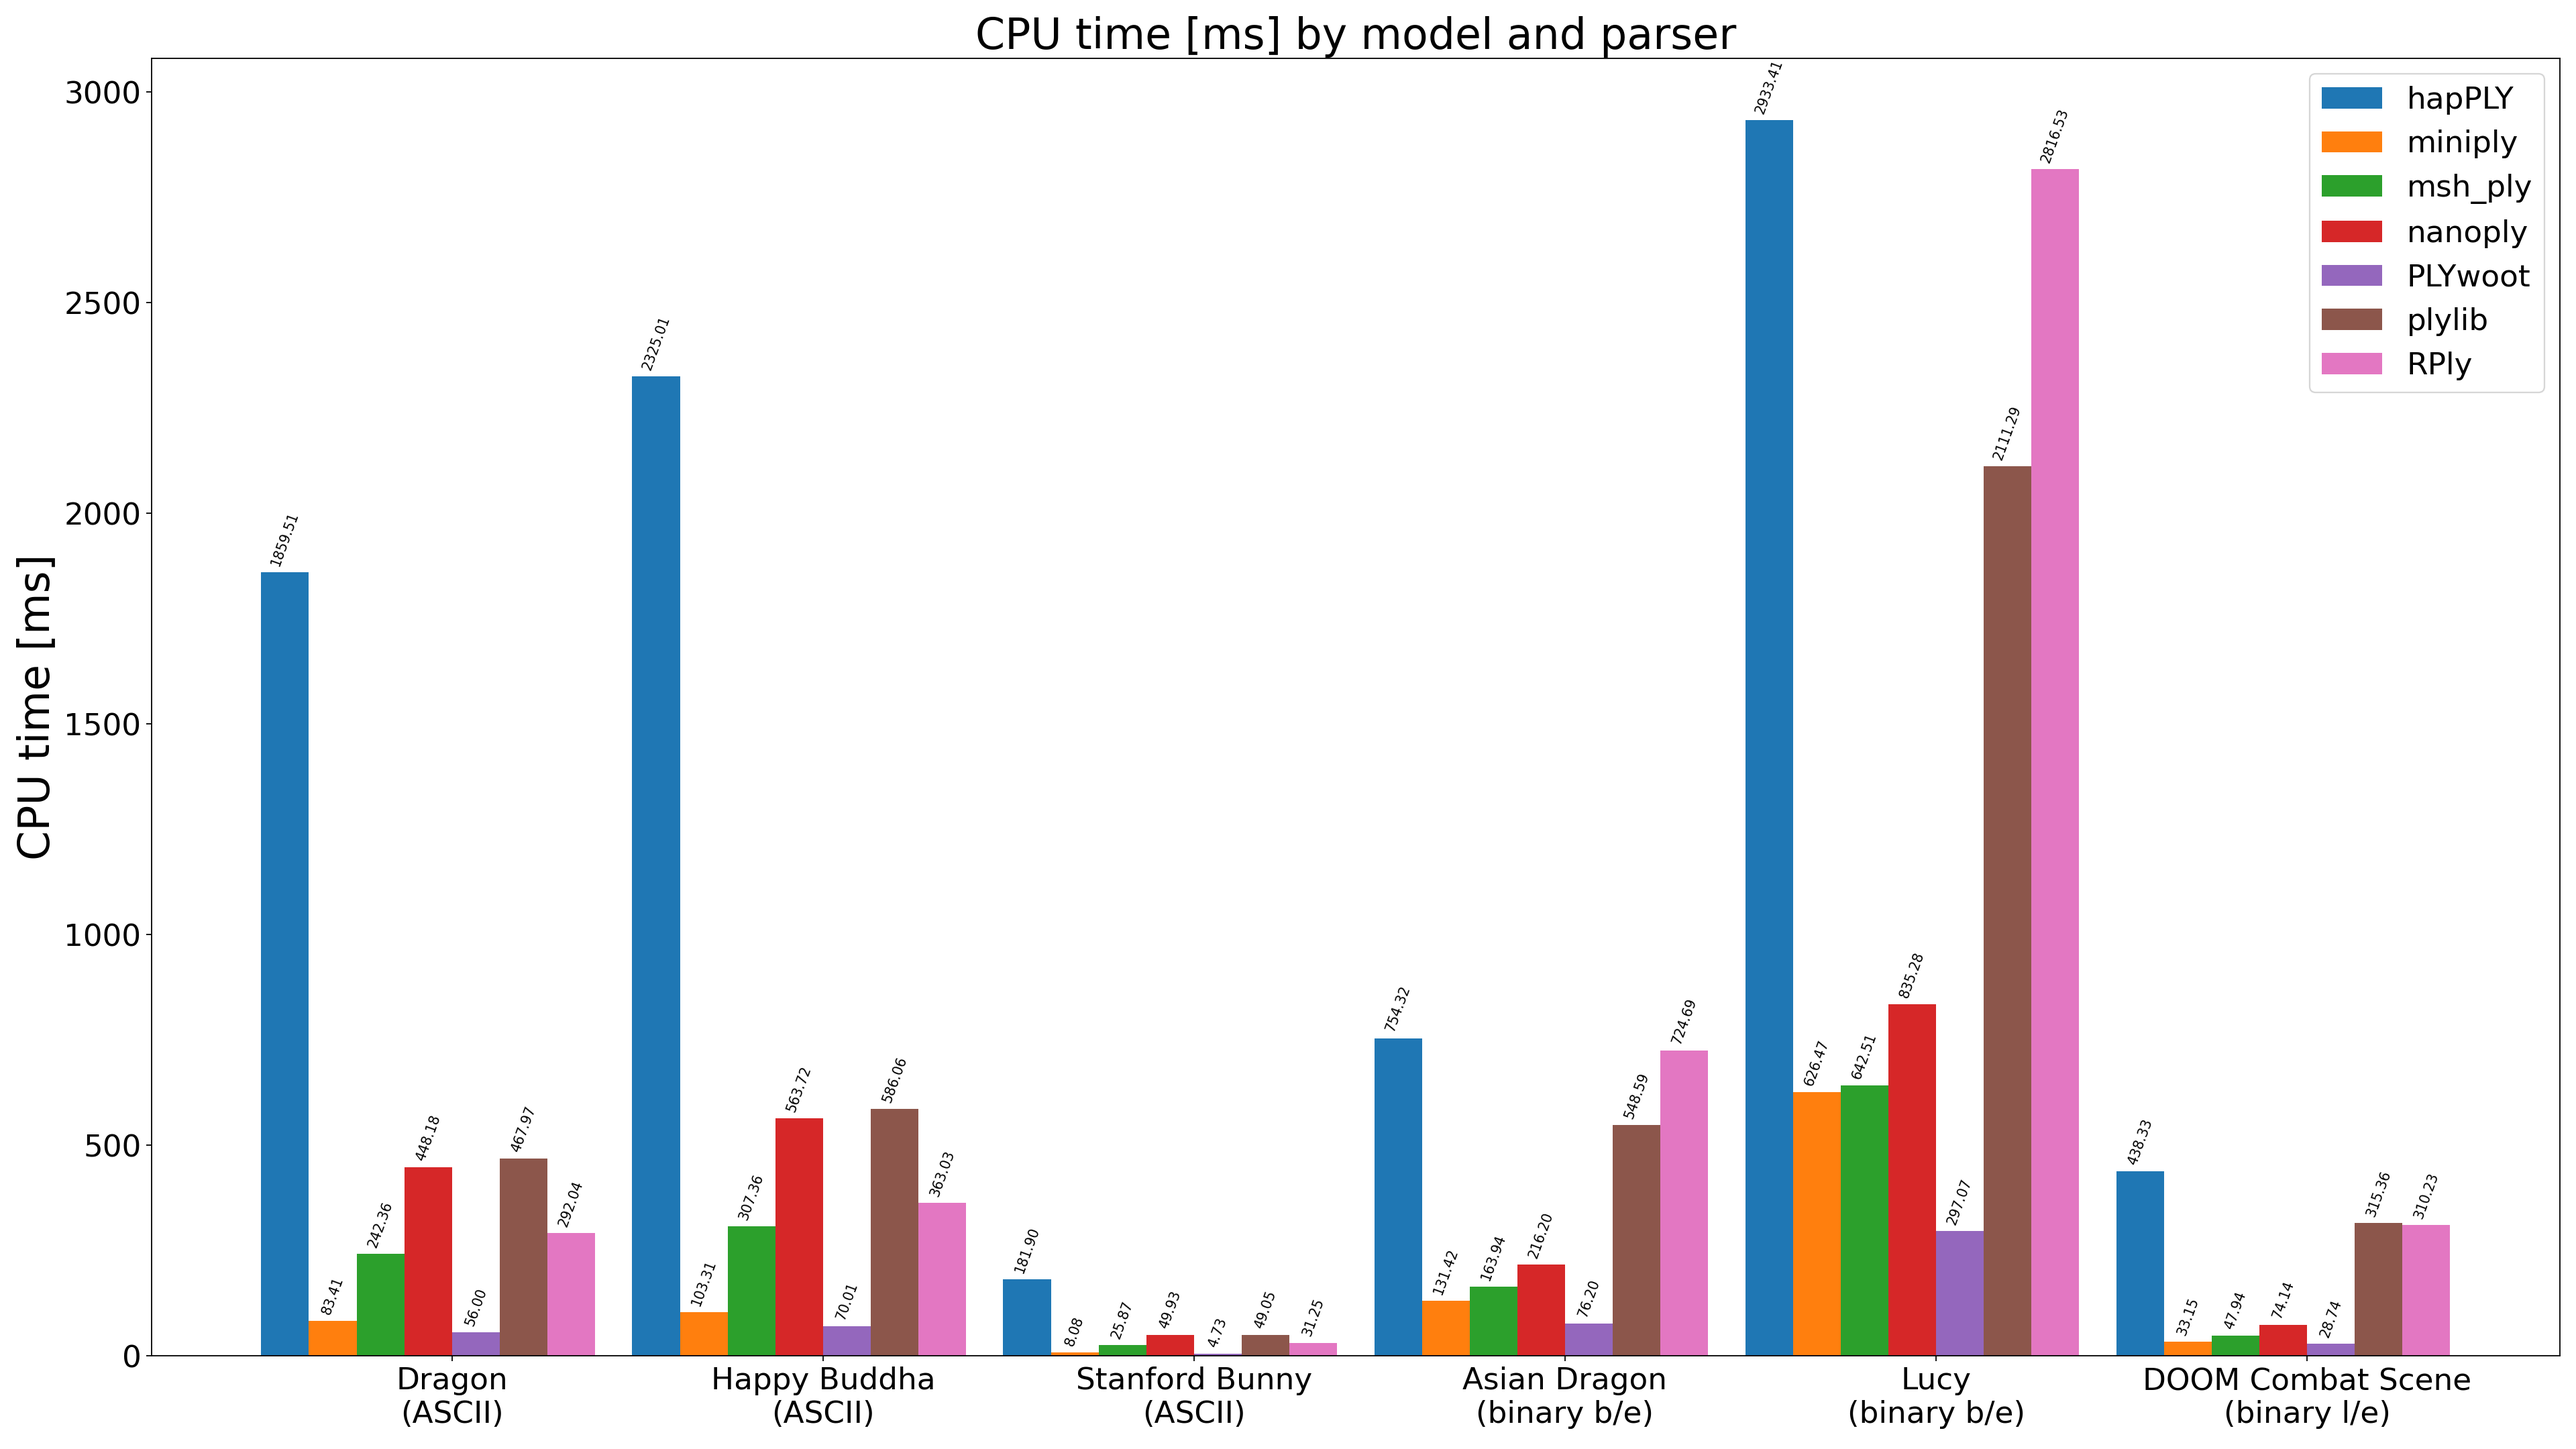
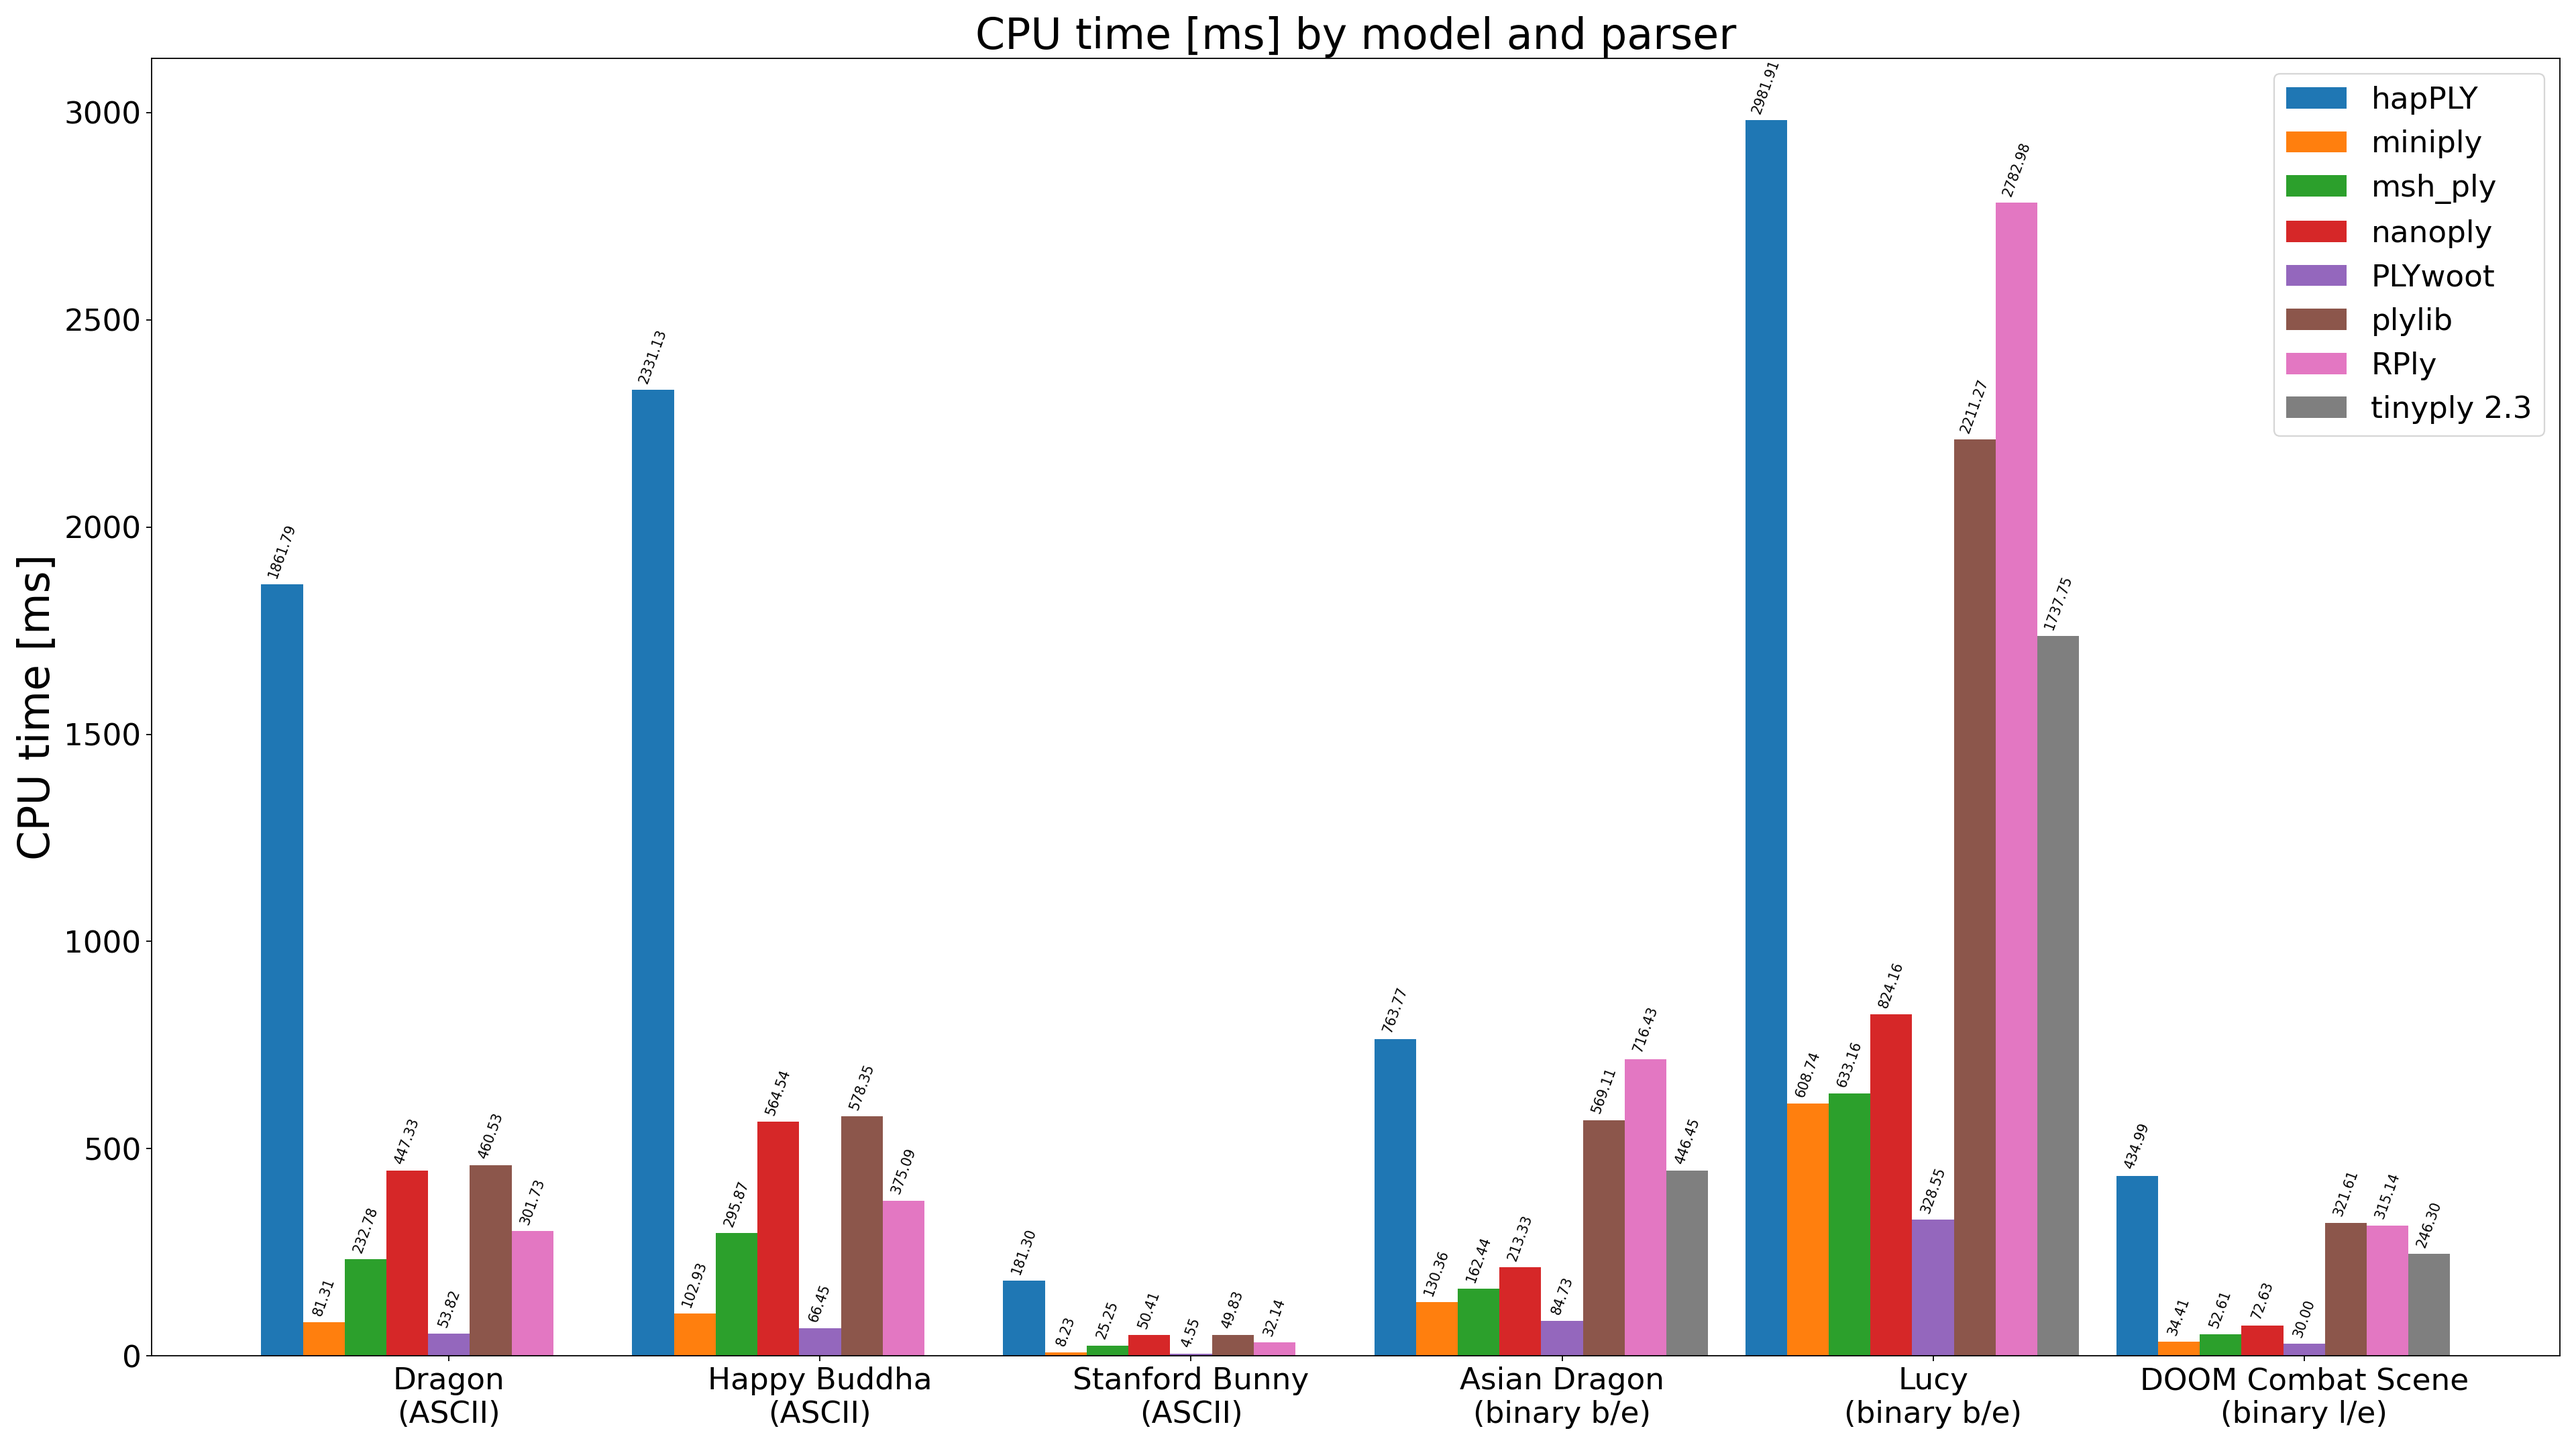
Fix plotting of CPU times graph

diff --git a/scripts/plot_graph.py b/scripts/plot_graph.py
@@ -29,18 +29,6 @@ if not benchmarks:
 cpu_times_by_parser_and_model = {}
 time_unit = None
 
-# Create a mapping, from PLY file to parser benchmark results.
-for benchmark in benchmarks:
-    time_unit = benchmark['time_unit']
-
-    # Extract the model name, and the parser name.
-    benchmark_name, _, model_name = benchmark['name'].partition('/')
-
-    # Strip off the (" and ") pre- and postfix from the model name.
-    model_name = '\n('.join(model_name[2:-2].split(' ('))
-
-    cpu_times_by_parser_and_model[(benchmark_name, model_name)] = benchmark['cpu_time']
-
 # Mapping from a raw benchmark name to a human readable parser name.
 benchmark_parser_names = {'BM_ParseHapply' : 'hapPLY', \
                           'BM_ParseMiniply' : 'miniply', \
@@ -49,7 +37,22 @@ benchmark_parser_names = {'BM_ParseHapply' : 'hapPLY', \
                           'BM_ParsePlywoot' : 'PLYwoot', \
                           'BM_ParsePlyLib' : 'plylib', \
                           'BM_ParseRPly' : 'RPly', \
+                          'BM_ParseTinyply' : 'tinyply 2.3' \
                          }
+
+# Create a mapping, from PLY file to parser benchmark results.
+for benchmark in benchmarks:
+    time_unit = benchmark['time_unit']
+
+    # Extract the model name, and the parser name.
+    benchmark_name, _, model_name = benchmark['name'].partition('/')
+
+    # Strip off quotes from the model name, and split put the model format type
+    # on a separate line.
+    model_name = '\n('.join(model_name.strip('"').split(' ('))
+
+    if benchmark_name in benchmark_parser_names:
+        cpu_times_by_parser_and_model[(benchmark_name, model_name)] = benchmark['cpu_time']
 
 # List of 3D model names, sorted on the format type first, model name second.
 model_names = sorted(list(set([model_name for _, model_name in cpu_times_by_parser_and_model.keys()])), key=lambda n: tuple(reversed(n.split('\n'))))
@@ -61,7 +64,7 @@ bar_width = bars_width / len(benchmark_parser_names)
 offset = -0.5 * bars_width
 
 for benchmark_name, parser_name in benchmark_parser_names.items():
-    cpu_times = [cpu_times_by_parser_and_model[(benchmark_name, model_name)] for model_name in model_names]
+    cpu_times = [cpu_times_by_parser_and_model.get((benchmark_name, model_name), float("NaN")) for model_name in model_names]
     rect = ax.bar(x + offset, cpu_times, bar_width, label=parser_name)
     offset += bar_width
     ax.bar_label(rect, fmt='%.2f', padding=3, fontsize=bar_label_fontsize, rotation=70)

diff --git a/src/plybench.cpp b/src/plybench.cpp
@@ -192,13 +192,13 @@ static void BM_WriteTinyply(benchmark::State &state, Format format)
 // (https://github.com/ddiakopoulos/tinyply/issues/59)
 
 #define BENCHMARK_PARSE(name, filename)                                                            \
-  BENCHMARK_CAPTURE(BM_ParseHapply, (name), (filename))->Unit(benchmark::kMillisecond);            \
-  BENCHMARK_CAPTURE(BM_ParseMiniply, (name), (filename))->Unit(benchmark::kMillisecond);           \
-  BENCHMARK_CAPTURE(BM_ParseMshPly, (name), (filename))->Unit(benchmark::kMillisecond);            \
-  BENCHMARK_CAPTURE(BM_ParseNanoPly, (name), (filename))->Unit(benchmark::kMillisecond);           \
-  BENCHMARK_CAPTURE(BM_ParsePlywoot, (name), (filename))->Unit(benchmark::kMillisecond);           \
-  BENCHMARK_CAPTURE(BM_ParsePlyLib, (name), (filename))->Unit(benchmark::kMillisecond);            \
-  BENCHMARK_CAPTURE(BM_ParseRPly, (name), (filename))->Unit(benchmark::kMillisecond);
+  BENCHMARK_CAPTURE(BM_ParseHapply, name, (filename))->Unit(benchmark::kMillisecond);            \
+  BENCHMARK_CAPTURE(BM_ParseMiniply, name, (filename))->Unit(benchmark::kMillisecond);           \
+  BENCHMARK_CAPTURE(BM_ParseMshPly, name, (filename))->Unit(benchmark::kMillisecond);            \
+  BENCHMARK_CAPTURE(BM_ParseNanoPly, name, (filename))->Unit(benchmark::kMillisecond);           \
+  BENCHMARK_CAPTURE(BM_ParsePlywoot, name, (filename))->Unit(benchmark::kMillisecond);           \
+  BENCHMARK_CAPTURE(BM_ParsePlyLib, name, (filename))->Unit(benchmark::kMillisecond);            \
+  BENCHMARK_CAPTURE(BM_ParseRPly, name, (filename))->Unit(benchmark::kMillisecond);
 
 BENCHMARK_PARSE("Asian Dragon (binary b/e)", "models/xyzrgb_dragon.ply")
 BENCHMARK_CAPTURE(BM_ParseTinyply, "Asian Dragon (binary b/e)", "models/xyzrgb_dragon.ply")
